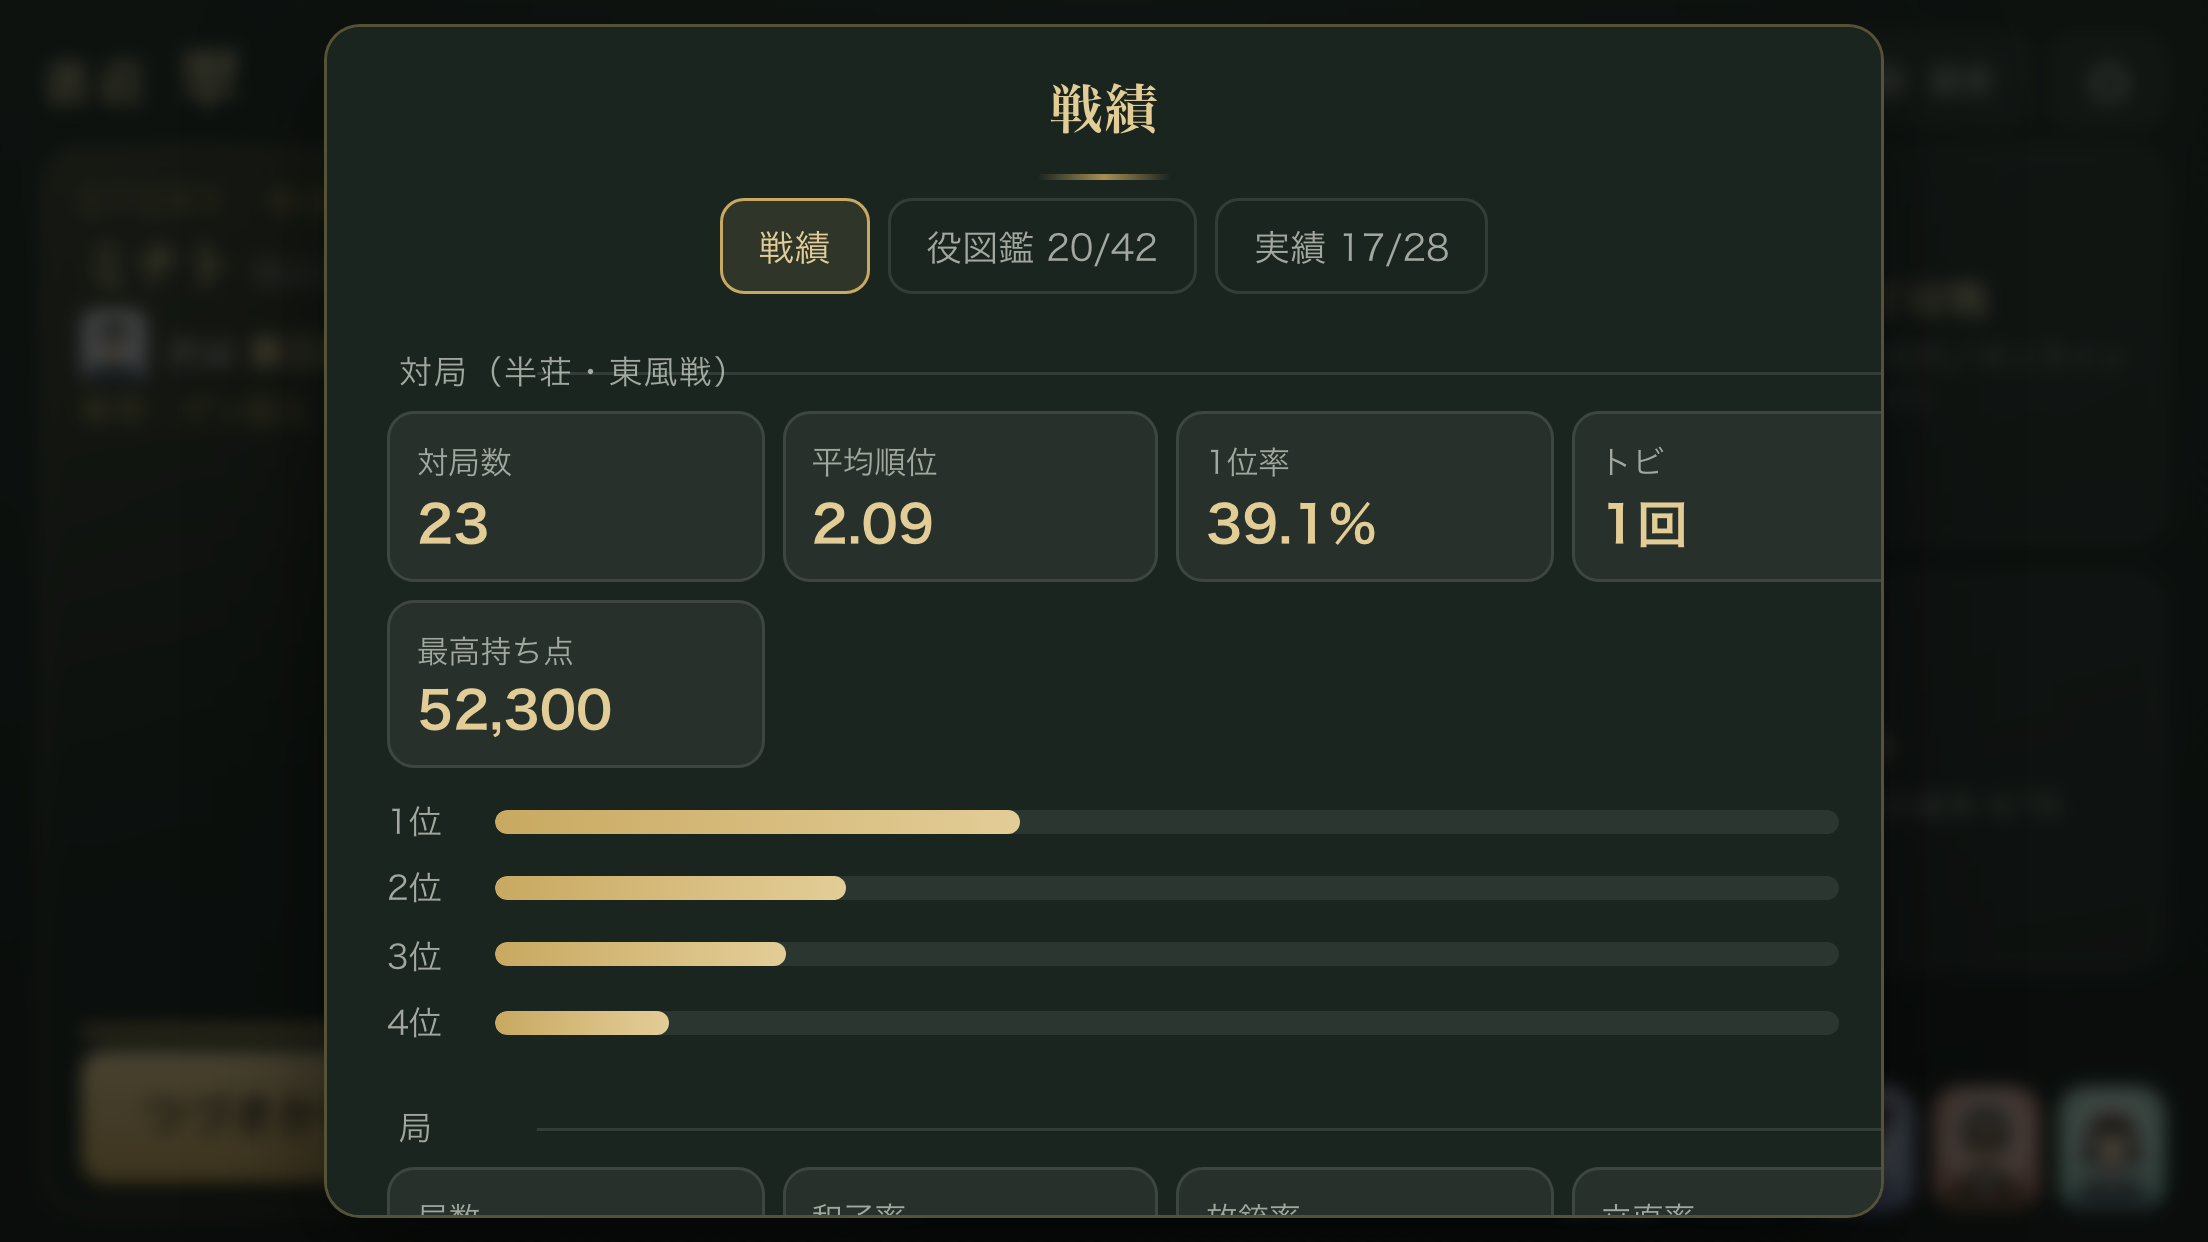
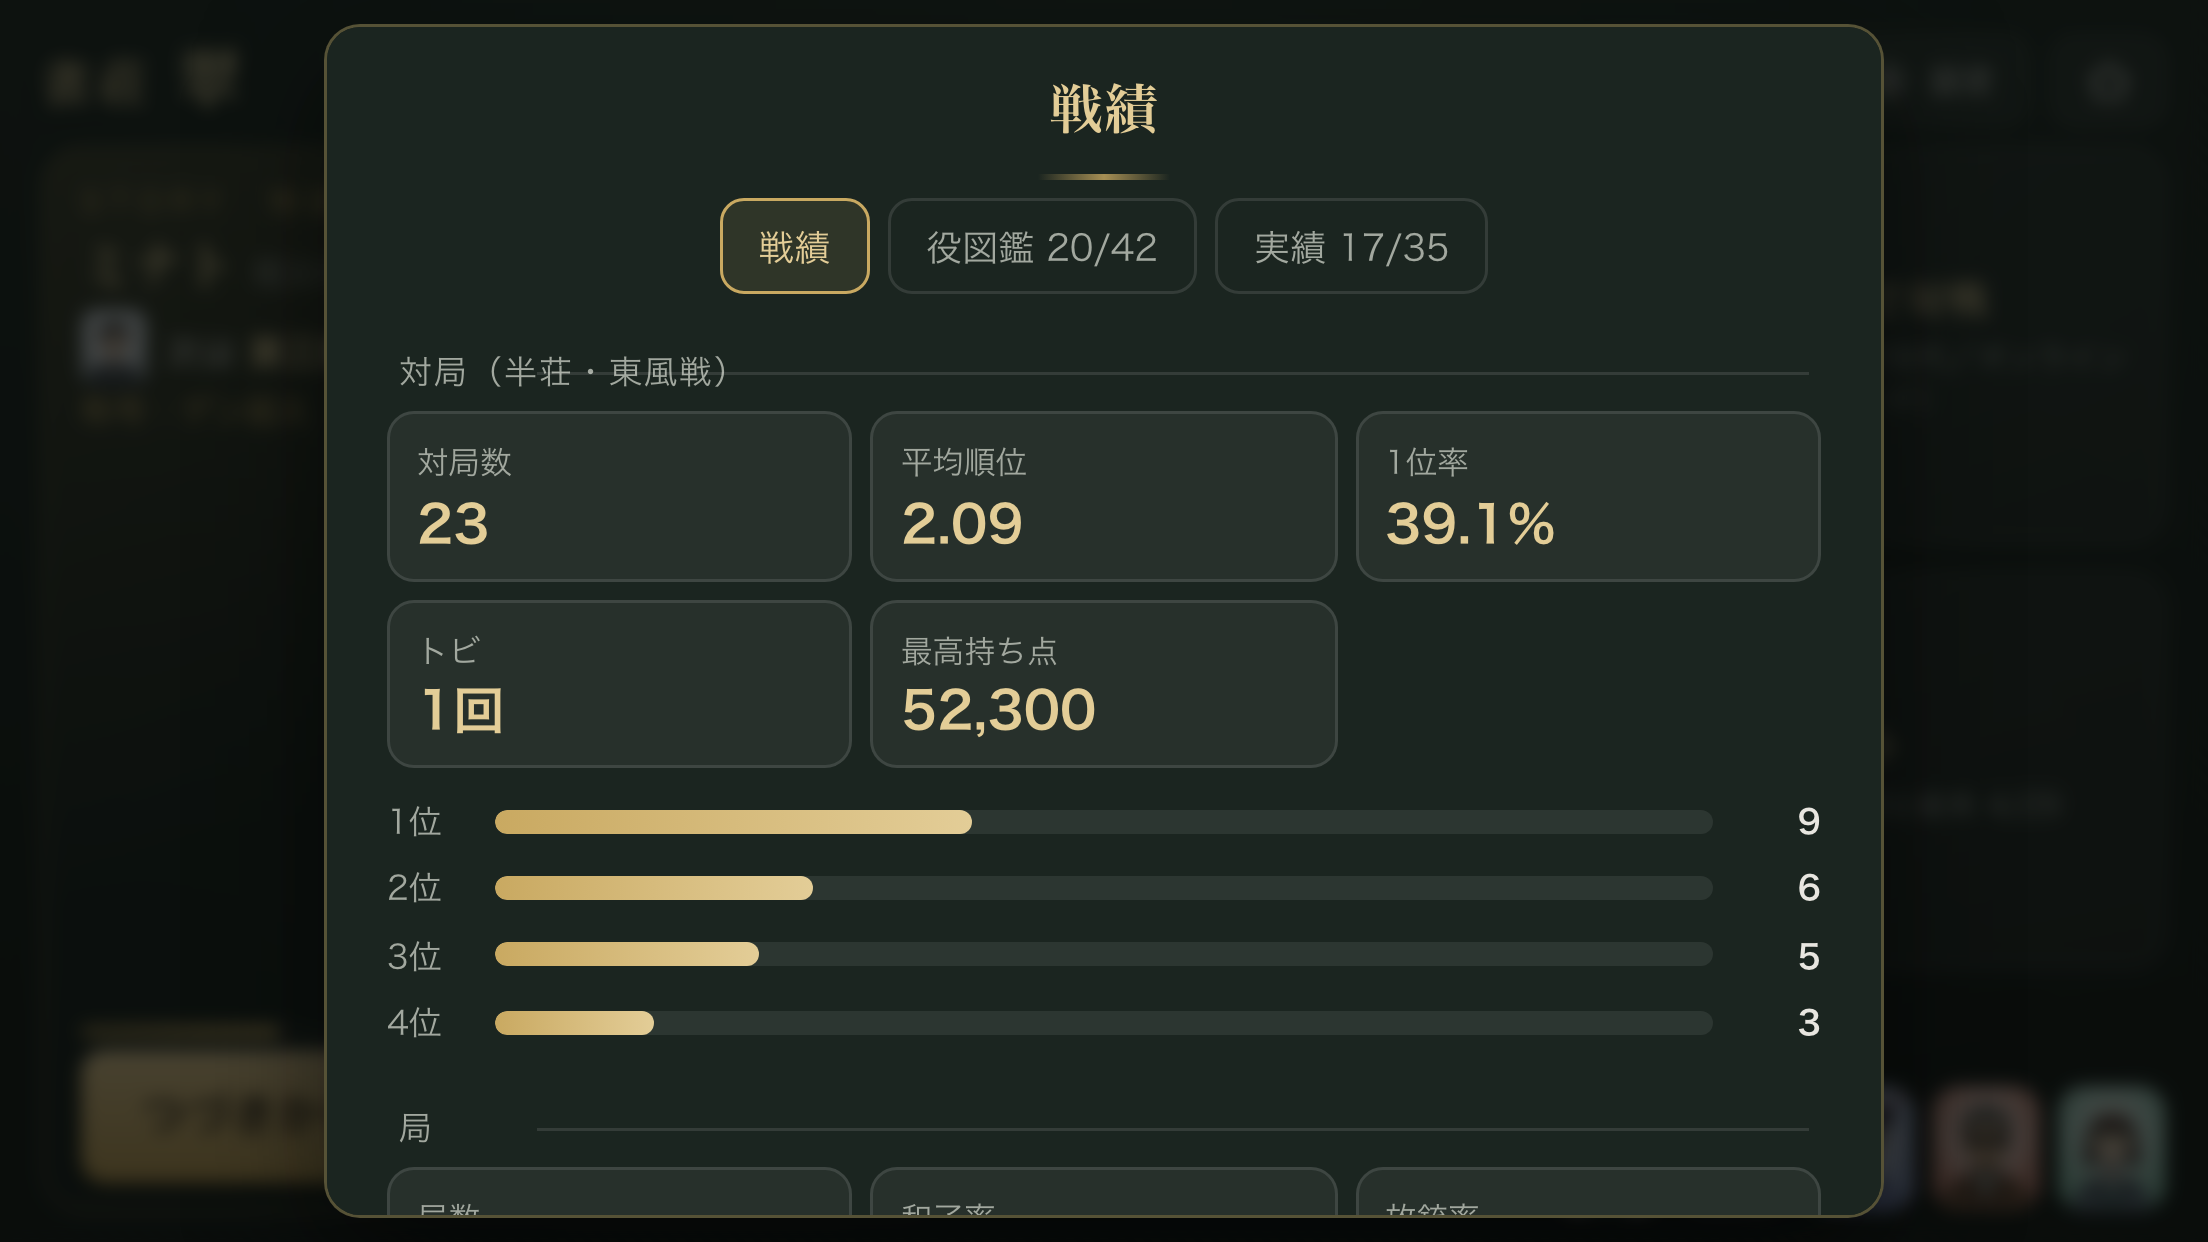
[#0037] 戦績の右端のカードが切れる不具合の修正と、App Store 用の画面写真の撮り直し
- index.html: 戦績の中身の幅を枠（#modal）の内側に合わせ、max-width:100% でスクロールバーが出ても収まるように
- ios-app/screenshots: bash tools/screenshots.sh で3サイズ×5場面を撮り直し（戦績の切れがなくなり、実績は35個の表示に）
- 関連ドキュメント: docs/20260929_BUG_0037_APP_戦績の右端のカードが切れる不具合の修正.md

diff --git a/index.html b/index.html
@@ -121,7 +121,7 @@
   .rb-tabs button{background:none;border:1px solid var(--line);color:var(--muted);border-radius:8px;padding:6px 12px;font-size:12px;cursor:pointer;font-family:var(--f-ui)}
   .rb-tabs button.on{border-color:var(--gold);color:var(--gold-hi);background:rgba(201,169,97,.12)}
   /* 戦績・役図鑑 */
-  .rb.rc{width:min(88vw,520px);box-sizing:border-box}
+  .rb.rc{width:min(calc(94vw - 54px),466px);max-width:100%;box-sizing:border-box}   /* 戦績：枠（#modal 最大520px）の内側の幅＝左右の余白26px×2と枠線を引いた幅。スクロールバーが出る時は max-width で内側に収める（広いと右端のカードが切れる） */
   .rc-grid{display:grid;grid-template-columns:repeat(auto-fill,minmax(118px,1fr));gap:6px;margin:4px 0 8px}
   .rc-cell{background:rgba(255,255,255,.05);border:1px solid var(--line);border-radius:9px;padding:7px 9px;text-align:left;min-width:0}
   .rc-cell small{display:block;font-size:10.5px;color:var(--muted)}
@@ -655,6 +655,7 @@
   /* 横画面の背の低い画面：結果・メニューの枠、会話、コーチを詰める */
   @media (max-height:500px) and (orientation:landscape){
     #modal{padding:14px 20px;max-height:calc(100vh - 16px)}
+    .rb.rc{width:min(calc(94vw - 42px),478px)}   /* 余白が20pxの時の内側の幅 */
     #modal h2{font-size:18px;margin-bottom:6px}
     #modal .yaku{line-height:1.6;margin:6px 0}
     #modal .handshow{margin:6px 0}

diff --git a/docs/20260929_BUG_0037_APP_戦績の右端のカードが切れる不具合の修正.md b/docs/20260929_BUG_0037_APP_戦績の右端のカードが切れる不具合の修正.md
@@ -1,0 +1,52 @@
+# 戦績の右端のカードが切れる不具合の修正（App Store 用の画面写真の撮り直しを含む）
+
+- 管理番号: #0037
+- 種類: BUG（バグ修正）
+- 対象: アプリ本体（APP）、iOSアプリの申請素材（`ios-app/screenshots/`）
+- 作成日: 2026-09-29
+- 関連: #0014（戦績と役図鑑。原因が入った変更）
+
+## 概要
+
+「戦績・役図鑑・実績」の画面で、統計のカード（対局数・平均順位・1位率・トビ など）の右端の列が枠の外にはみ出して切れていた。横向きのスマホと PC で起きていた（2026-09-25 の #0014 から）。App Store 用に撮った戦績の写真（2026-09-26）にも同じ切れが写っていた。
+
+原因：戦績の中身の幅を「画面幅の88%、最大520px」にしていたが、入れ物の枠（`#modal`）は最大520px の中に左右の余白（26px ずつ、横向きの低い画面では 20px ずつ）と枠線を含むため、中身が枠の内側より 42〜54px 広かった。さらにスクロールバーが出ると、その分（約10px）も足りなくなっていた。
+
+## 対象ファイル
+
+- `index.html`（CSS の `.rb.rc`）
+- `ios-app/screenshots/*.png`（撮り直し）
+
+## 変更内容
+
+- 戦績の中身の幅を「枠の内側の幅」に合わせた：最大 466px（余白 26px の時）、横向きの低い画面では最大 478px（余白 20px の時）
+- `max-width:100%` を足し、スクロールバーが出ても枠の内側に収まるようにした
+- `bash tools/screenshots.sh` で App Store 用の画面写真（3サイズ × 5場面）を撮り直した。戦績の切れがなくなり、実績の数も今の 35 個になった（前の写真は「実績 17/28」）
+
+## 確認URL
+
+| 環境 | URL |
+|---|---|
+| ローカル | http://127.0.0.1:8766/index.html |
+| 本番 | https://kiyotake1229.github.io/mahjong/ |
+
+確認した内容（戦績・役図鑑・実績の3つのタブ × 5つの画面で、枠の横スクロールが出ないこと）：
+
+| 画面 | 修正前 | 修正後 |
+|---|---|---|
+| 932×430（6.7インチ横） | 右端の列が切れる | 3列、はみ出しなし |
+| 844×390 | 右端の列が切れる | 3列、はみ出しなし |
+| 667×375 | ― | 3列、はみ出しなし |
+| 1280×800（PC） | 右端の列が切れる | 3列、はみ出しなし |
+| 390×844（縦） | 右端がはみ出す | 2列、はみ出しなし |
+
+- 撮り直した App Store 用の写真で、戦績のカードと順位の回数（右端の数字）が枠に収まっていること
+
+## 作業概要と概算工数
+
+| 項目 | 内容 | 工数 |
+|---|---|---|
+| 調査 | 画面写真で発見、幅の計算とスクロールバーの分の特定 | 0.3h |
+| 修正 | CSS 2か所 | 0.1h |
+| 確認 | 3タブ × 5画面の計測、App Store 用写真の撮り直し | 0.4h |
+| 合計 | | 0.8h |
